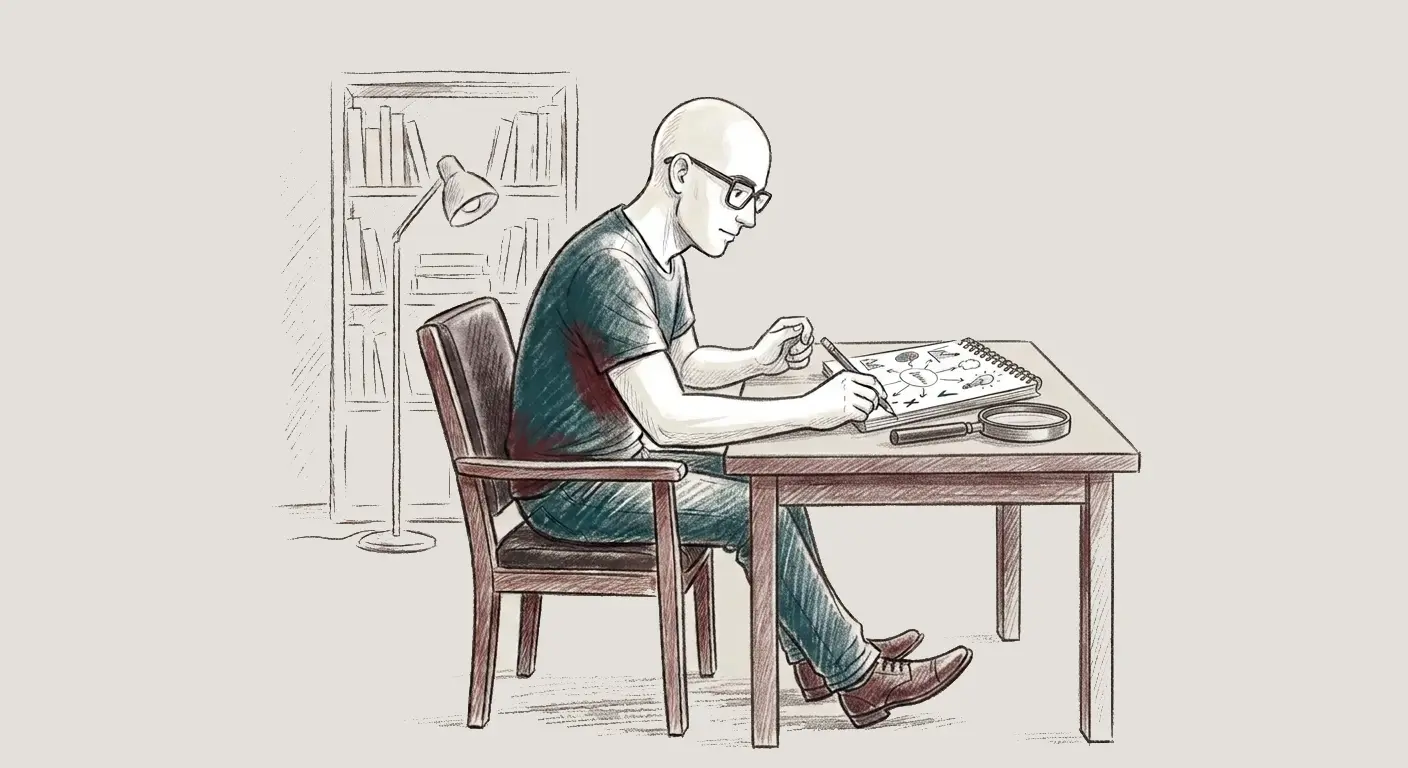
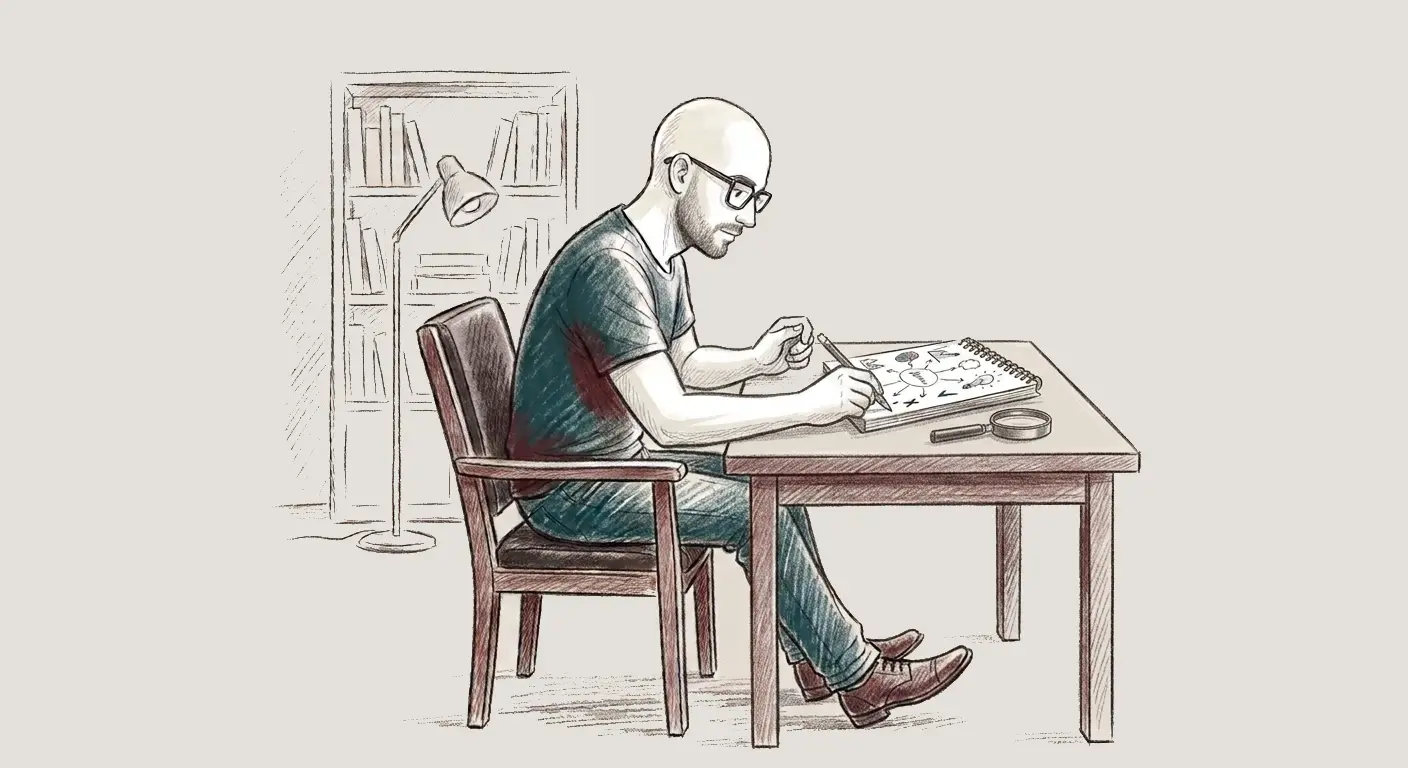
Added scroll progress bar and closing section

diff --git a/styles.css b/styles.css
@@ -167,6 +167,25 @@ body {
     font-weight: var(--weight-semibold);
 }
 
+/* === Badge === */
+.tp-badge {
+    display: inline-flex;
+    align-items: center;
+    font-family: var(--font-display);
+    font-size: 11px;
+    font-weight: var(--weight-bold);
+    letter-spacing: 0.08em;
+    text-transform: uppercase;
+    padding: 4px 10px;
+    border-radius: var(--radius-sm);
+    line-height: 1.4;
+    vertical-align: middle;
+}
+.tp-badge--coming-soon {
+    background: var(--tp-oxblood-light);
+    color: var(--tp-oxblood);
+}
+
 /* === Eyebrow label === */
 .tp-eyebrow {
     font-family: var(--font-display);
@@ -221,6 +240,11 @@ body {
     background: rgba(255, 255, 255, 0.07);
     border-color: rgba(255, 255, 255, 0.5);
 }
+.tp-btn--inactive {
+    opacity: 0.45;
+    cursor: not-allowed;
+    pointer-events: none;
+}
 
 /* ============================================================
    Site nav
@@ -238,6 +262,15 @@ body {
     display: flex;
     align-items: center;
     padding-inline: var(--space-6);
+}
+.tp-nav-progress {
+    position: absolute;
+    bottom: 0;
+    left: 0;
+    width: 0%;
+    height: 2px;
+    background: var(--action-emphasis);
+    z-index: 1;
 }
 .tp-site-nav__container {
     max-width: var(--container-max);
@@ -557,6 +590,86 @@ body {
     line-height: var(--leading-snug);
 }
 
+/* ============================================================
+   Closing CTA section
+   Dark/grain bookend to the hero.
+============================================================ */
+.tp-closing {
+    background-color: var(--surface-dark);
+    --grain-color: 255, 255, 255;
+    padding: var(--space-28) var(--space-6);
+}
+.tp-closing__container {
+    max-width: var(--container-max);
+    width: 100%;
+    margin-inline: auto;
+    display: flex;
+    justify-content: center;
+}
+.tp-closing__content {
+    max-width: 44rem;
+    display: flex;
+    flex-direction: column;
+    gap: var(--space-8);
+    text-align: center;
+}
+.tp-closing__headline {
+    font-family: var(--font-display);
+    font-weight: var(--weight-bold);
+    color: var(--text-on-dark);
+    font-size: clamp(var(--text-2xl), 4vw, var(--text-3xl));
+    line-height: var(--leading-heading);
+    letter-spacing: var(--tracking-heading);
+}
+.tp-closing__body {
+    color: var(--text-on-dark-muted);
+    font-size: var(--text-lg);
+    line-height: var(--leading-snug);
+}
+.tp-closing__options {
+    text-align: left;
+    display: flex;
+    flex-direction: column;
+    gap: var(--space-4);
+}
+.tp-closing__options-intro {
+    color: var(--text-on-dark);
+    font-weight: var(--weight-semibold);
+    font-size: var(--text-base);
+}
+.tp-closing__options-list {
+    list-style: disc;
+    padding-left: var(--space-5);
+    display: flex;
+    flex-direction: column;
+    gap: var(--space-4);
+}
+.tp-closing__options-list li {
+    color: var(--text-on-dark-muted);
+    font-size: var(--text-base);
+    line-height: var(--leading-snug);
+}
+.tp-closing__options-list strong { color: var(--text-on-dark); }
+.tp-closing__actions {
+    display: flex;
+    flex-wrap: wrap;
+    justify-content: center;
+    align-items: flex-end;
+    gap: var(--space-4);
+    padding-top: var(--space-4);
+}
+.tp-closing__action-wrap {
+    display: inline-flex;
+    flex-direction: column;
+    align-items: center;
+    gap: var(--space-2);
+}
+.tp-closing__note {
+    color: var(--text-on-dark-muted);
+    font-size: var(--text-sm);
+    line-height: var(--leading-body);
+}
+
 /* === Footer === */
 .tp-footer {
     background-color: var(--surface-dark);
@@ -640,6 +753,7 @@ html { scroll-behavior: smooth; }
     .tp-hero,
     .tp-problems,
     .tp-fix,
+    .tp-closing,
     .tp-site-nav {
         padding-inline: var(--space-5);
     }

diff --git a/index.html b/index.html
@@ -24,6 +24,7 @@ height="0" width="0" style="display:none;visibility:hidden"></iframe></noscript>
 <!-- End Google Tag Manager (noscript) -->
 
     <header class="tp-site-nav">
+        <div class="tp-nav-progress" aria-hidden="true"></div>
         <div class="tp-site-nav__container">
             <span class="tp-wordmark">
                 Tool<span class="tp-wordmark__proof">proof</span><sup class="tp-wordmark__reg">&trade;</sup>
@@ -50,6 +51,7 @@ height="0" width="0" style="display:none;visibility:hidden"></iframe></noscript>
                 <h1 class="tp-hero__headline">Find the time and money your marketing isn't earning back.</h1>
                 <p class="tp-hero__lead">Measure what matters. Make more of what you have. <br />Make your marketing <strong>accountable</strong>.</p>
                 <div class="tp-hero__actions">
+                    <a class="tp-btn tp-btn--ghost tp-btn--inactive" href="#" aria-disabled="true">Score your marketing in 5 minutes</a> 
                     <a class="tp-btn tp-btn--emphasis" href="tel:[phone redacted]">Book an Inspection</a>
                 </div>
             </div>
@@ -113,7 +115,7 @@ height="0" width="0" style="display:none;visibility:hidden"></iframe></noscript>
                     <p class="tp-fix__phase-intro">You can't act on figures you don't trust, so we sort that out before anything else.</p>
                     <img class="tp-fix__illustration" src="assets/measurement.webp" alt="" role="presentation" width="1408" height="768">
                     <ul class="tp-fix__steps">
-                        <li><strong>Pre-Inspection.</strong> A free, five-minute scoring exercise so you know where you stand before we speak.</li>
+                        <li><strong>Pre-Inspection.</strong> <span class="tp-badge tp-badge--coming-soon">Coming soon</span> A free, five-minute scoring exercise so you know where you stand before we speak.</li>
                         <li><strong>Initial Inspection.</strong> A more detailed look under the hood and a detailed read on where you stand.</li>
                         <li><strong>Foundations.</strong> We form your measurement from scratch, or fix what is already there, so every decision that follows rests on real numbers.</li>
                         <li><strong>Start, or Restart.</strong> Once the foundations hold, we are cleared to begin.</li>
@@ -146,6 +148,30 @@ height="0" width="0" style="display:none;visibility:hidden"></iframe></noscript>
         </div>
     </section>
 
+    <section class="tp-closing tp-grain" id="get-started">
+        <div class="tp-closing__container">
+            <div class="tp-closing__content">
+                <h2 class="tp-closing__headline">Ready to find what your marketing isn't earning back?</h2>
+                <p class="tp-closing__body">Every quarter you wait is another quarter you can't say what your marketing actually earned. We fix that, starting with numbers you can trust.</p>
+                <div class="tp-closing__options">
+                    <p class="tp-closing__options-intro">Two ways to begin, depending on how ready you are:</p>
+                    <ul class="tp-closing__options-list">
+                        <li><strong>Score your marketing in 5 minutes.</strong>  A free Pre-Inspection that shows where you stand. No cost, no obligation, and no sales call unless you ask for one. <span class="tp-badge tp-badge--coming-soon">Coming soon</span></li>
+                        <li><strong>Book an Inspection.</strong> A detailed read on your tools and your results, with a clear plan for what to fix first.</li>
+                    </ul>
+                </div>
+                <div class="tp-closing__actions">
+                    <div class="tp-closing__action-wrap">
+                        <span class="tp-badge tp-badge--coming-soon">Coming soon</span>
+                        <a class="tp-btn tp-btn--ghost tp-btn--inactive" href="#" aria-disabled="true">Score your marketing in 5 minutes</a>
+                    </div>
+                    <a class="tp-btn tp-btn--emphasis" href="tel:[phone redacted]">Book an Inspection</a>
+                </div>
+                <p class="tp-closing__note">We're based in Western Australia and work with local owners who want straight answers. You'll talk to a person, not a form.</p>
+            </div>
+        </div>
+    </section>
+
     <footer class="tp-footer">
         <span class="tp-wordmark tp-wordmark--light">
             Tool<span class="tp-wordmark__proof">proof</span><sup class="tp-wordmark__reg">&trade;</sup>
@@ -171,6 +197,15 @@ height="0" width="0" style="display:none;visibility:hidden"></iframe></noscript>
                     btn.setAttribute('aria-label', 'Open menu');
                 });
             });
+
+            var progressBar = document.querySelector('.tp-nav-progress');
+            if (progressBar) {
+                window.addEventListener('scroll', function () {
+                    var scrolled = window.scrollY || document.documentElement.scrollTop;
+                    var total = document.documentElement.scrollHeight - document.documentElement.clientHeight;
+                    progressBar.style.width = (total > 0 ? (scrolled / total) * 100 : 0) + '%';
+                }, { passive: true });
+            }
 
             var stickyCta = document.querySelector('.tp-sticky-cta');
             var hero = document.querySelector('.tp-hero');